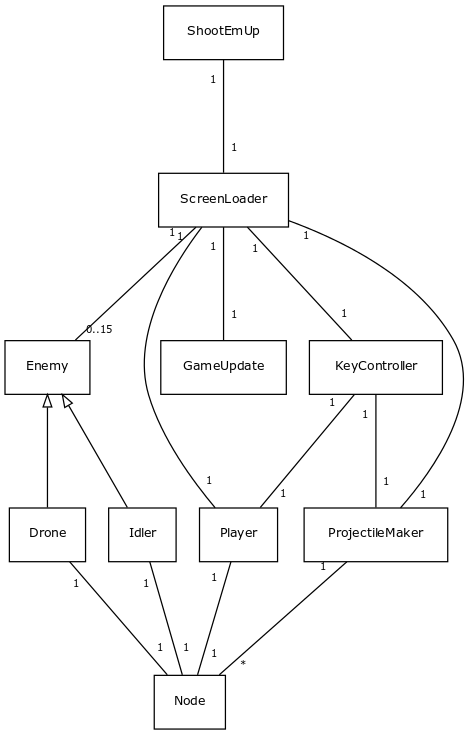
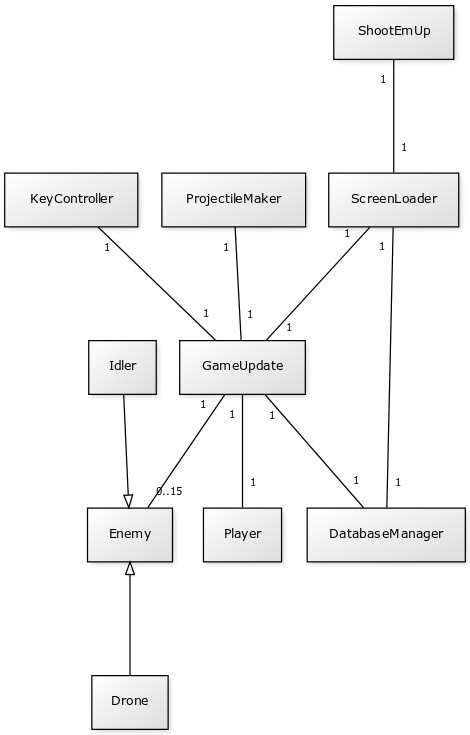
dokumentointi

diff --git a/dokumentointi/arkkitehtuurikuvaus.md b/dokumentointi/arkkitehtuurikuvaus.md
@@ -10,8 +10,9 @@ Scene-olion ja lataavat sen stageen. "Hiscores"-nappi vie käyttäjän hiscores 
 
 Ohjelman osien suhdetta kuvaava luokkakaavio:
 
-![luokkakaavio](https://yuml.me/c8860a70.png)
+![luokkakaavio](https://github.com/jupste/otm-harjoitustyo/blob/master/dokumentointi/luokkakaavio.png)
 
+Peli muodostuu pitkälti ScreenLoader ja GameUpdate olioiden varaan. ScreenLoader vastaa menujen vaihdoista ja pelialustan staattisista elementeistä kun taas GameUpdate-olio vastaa pelialustan elementtien liikkeistä. Molemmilla olioilla on pääsy samaan DatabaseManager-olioon, joka vastaa pelin tulosten tallentamisesta. 
 ## Päätoiminnalisuudet
 
 Seuraavaksi kuvataan sovelluksen keskeisten toimintojen päätoiminnalisuus sekvenssikaavioilla.
